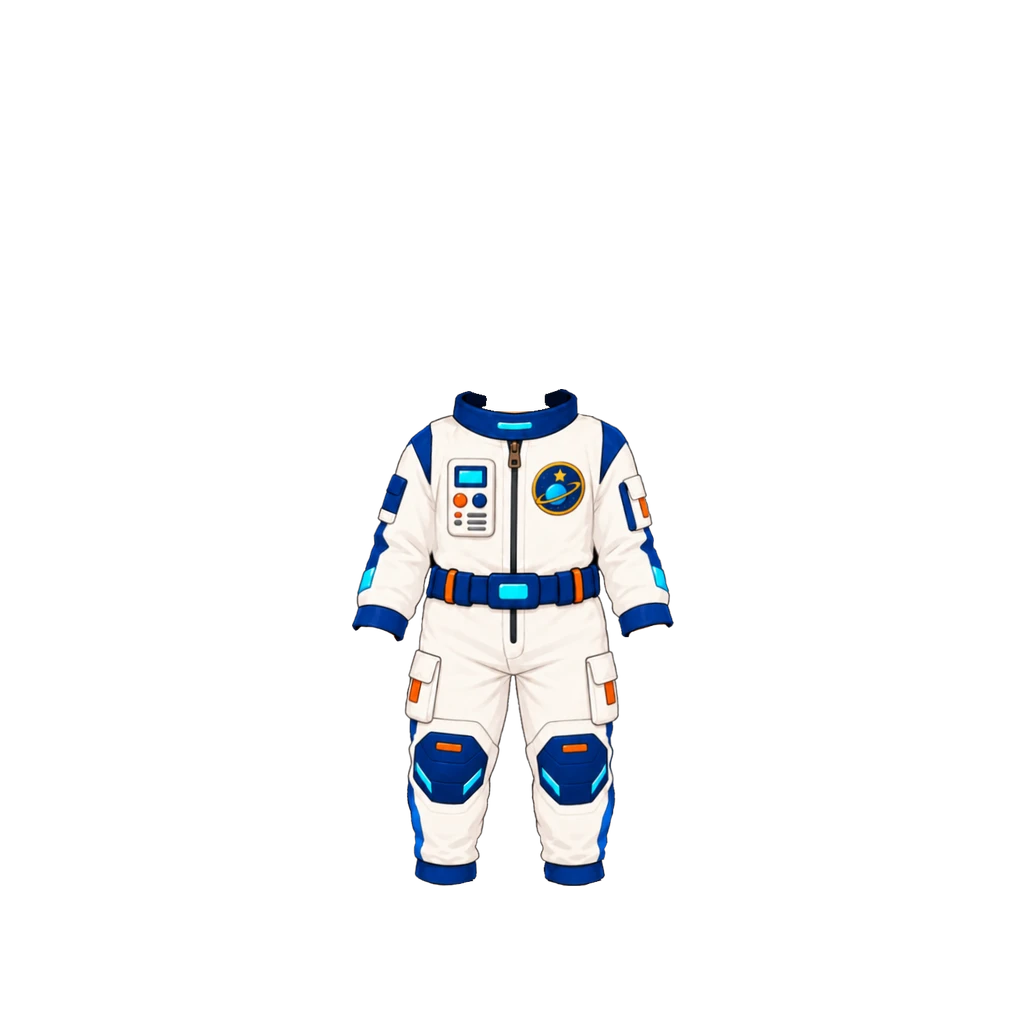
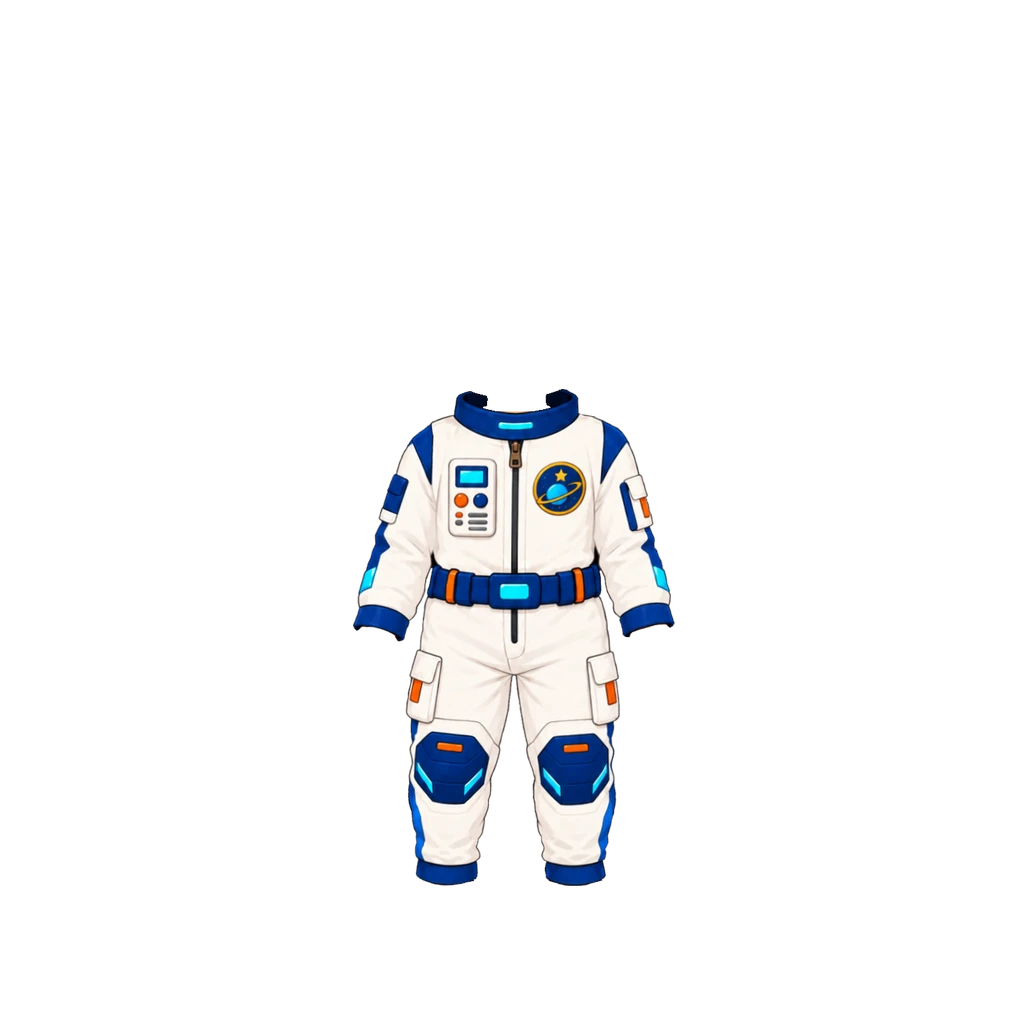
남아 우주복 오른쪽으로 1 (#822)
Claude-Session: https://claude.ai/code/session_018maNuYqDfFyRSe9uKpZhPR

diff --git a/src/data/avatarEquipment.js b/src/data/avatarEquipment.js
@@ -289,7 +289,8 @@ export const AVATAR_CATALOG = [
      베이스 목이 비친다. 바지 끝 y934 — 우주 부츠(z25)의 부츠목을 덮는다. 탑재 상자 (341,394,690,934). img ?v=4.
      [2026-10-03] 사용자 조정 — 8% 작게(배율 0.6974, 목깃 가운데 x516·위끝 y394 고정). 탑재 상자 (355,394,677,891). img ?v=5.
      [2026-10-03] 사용자 조정 — 위로 3(목깃 위끝 y391). 탑재 상자 (355,391,677,888). img ?v=6.
-     [2026-10-03] 사용자 조정 — 왼쪽으로 3·위로 2(목깃 가운데 x513, 위끝 y389). 탑재 상자 (352,389,674,886). img ?v=7. */
+     [2026-10-03] 사용자 조정 — 왼쪽으로 3·위로 2(목깃 가운데 x513, 위끝 y389). 탑재 상자 (352,389,674,886). img ?v=7.
+     [2026-10-03] 사용자 조정 — 오른쪽으로 1(목깃 가운데 x514). 탑재 상자 (353,389,675,886). img ?v=8. */
   /* 해적 옷 — 이 원화도 '옷만 오려 낸 그림'이라 상체를 눈으로 맞췄다(하늘 나들이 옷과 같은 방식).
      긴소매라 소맷부리가 손목에 닿는 배율을 골랐다 — 0.72는 팔뚝이 남고 0.76부터는 손을 덮는다.
      배율 0.74 · 깃 위끝 y372(기본 반팔티 깃과 같은 자리) → 탑재 상자 (350,372)-(674,754). */
@@ -356,7 +357,7 @@ export const AVATAR_CATALOG = [
      배율 0.7104, 목 중심 새 원화 x212.06 → x511.5, 턱 자리 y0 → y356. 목둘레 안(y0~23, x173~255)과 맨 위(y0~5)의 보라 아닌 픽셀을 지웠다.
      옛 판과 겹침 IoU 0.956. 탑재 상자 (361,356,662,887). imgGirl ?v=5.
      [2026-10-03] 사용자 조정 — 왼쪽으로 2(목 중심 x509.5). 탑재 상자 (359,356,660,887). imgGirl ?v=6. */
-  { id: "top_space",      slot: "top",   label: "우주 탐험대",       emoji: "🚀", labelGirl: "별빛 우주인", emojiGirl: "🪐", price:DECOR_PRICE.epic, rarity: "epic", theme: "space",  coversBottom: true, img: "assets/avatar/top/space-suit-boy.webp?v=7", imgGirl: "assets/avatar/top/space-suit-girl.webp?v=6", thumb: "assets/avatar/thumb/top_space.webp?v=4", thumbGirl: "assets/avatar/thumb/top_space-girl.webp?v=5" },
+  { id: "top_space",      slot: "top",   label: "우주 탐험대",       emoji: "🚀", labelGirl: "별빛 우주인", emojiGirl: "🪐", price:DECOR_PRICE.epic, rarity: "epic", theme: "space",  coversBottom: true, img: "assets/avatar/top/space-suit-boy.webp?v=8", imgGirl: "assets/avatar/top/space-suit-girl.webp?v=6", thumb: "assets/avatar/thumb/top_space.webp?v=4", thumbGirl: "assets/avatar/thumb/top_space-girl.webp?v=5" },
 
   /* ── 우주 세트 (남아) — 사용자 원화 2026-09-29 ────────────────────────────
      우주복(top_space)과 같은 원화 세트에서 나온 가방·신발. 둘 다 남아 전용 첫

diff --git a/art-src/README.md b/art-src/README.md
@@ -354,7 +354,7 @@ getBoundingClientRect로 재서 정한다. 2026-08-05 점검에서 이 기준을
 | raincoat-girl-src.webp | **노란 우비 원화 여아 (사용자 원화 2026-10-02)**. 449×443 투명 배경, 노란 우비(흰 둥근 깃·청록 테두리·구름 주머니) + 청록 반바지 한 벌. 위쪽에 목(턱 없음)이 함께 그려져 있다. 원화 목 외곽선 x194.5~258.5(폭 64, 중심 226.5)를 여아 목 중심 x512.5 에, 곧은 목선이 깃 속으로 들어가는 원화 y19 를 여아 y372 에 맞추고 배율 0.69(목 폭이 같아지는 값 — 품이 넓어 수영복은 0.64 부터 다 가려진다, 소매는 손목에서 끝남). 목 살(r−b>70)과 목 옆선은 원화 y6→24 동안 0→1 페이드. 조각 1개, 수영복 비침 0. 탑재 상자 (356,360,666,665) **[2026-10-02 보정]** 사용자 요청으로 반바지만 5퍼센트 키움 — 열마다 노란색 마지막 줄+4 아래(가운데 앞자락 틈 x200~232·y<392 제외)를 반바지로 떼어, 원화 (x221.5, y395) 기준으로 1.05배 키워 원래 반바지 위·우비 아래에 넣었다. 키운 반바지가 원래 반바지 윗선보다 위로 우비 밖에 나오는 부분은 잘랐다. 탑재 상자 (355,360)-(668,669) · ?v=2 | avatar/top/raincoat-girl.webp · thumb/top_raincoat.webp |
 | delivery-girl-outfit-src.webp | **배달부룩 원화 여아 (사용자 원화 2026-10-02)**. 2366×3072 **검은 불투명 배경**(알파 없음)으로 받았다 → 가장자리에서 4-연결로 이어진 검은색(최댓값<34)만 지우고, 옷 둘레 4px 띠는 밝기로 반투명 처리한 뒤 폭 470 으로 줄여 보관(470×613). 하늘색 세일러 블라우스(크림 깃·파란 리본) + 파란 주름치마 원피스, 위쪽에 목(턱 없음)이 함께 그려져 있다. 원화 목 외곽선 x203.5~279(폭 75.5, 중심 241.25)를 여아 목 중심 x512.5 에, 곧은 목선이 끝나는 원화 y15 를 여아 y372 에 맞추고 흰 수영복이 다 가려지는 배율 0.60(목 폭 기준 0.58). 목 살(r−b>70)과 목 옆선은 원화 y4→22 동안 0→1 페이드. 조각 1개, 수영복 비침 1px. 탑재 상자 (368,363,650,731) | avatar/top/delivery-outfit-girl.webp · thumb/top_delivery.webp |
 | sky-girl-tights-src.webp | 위 옷의 **타이츠 있는 판** (알파 상자 (206,707)-(625,1582)). **안 썼다** — 아래 '옷만 오려 낸 원화' 절 참고. 타이츠 아이템을 따로 만들 때 다시 쓸 수 있어 남겨 둔다 | (미탑재) |
-| space-boy-src.webp | **우주복 원화 남아 — 새 판 (사용자 원화 2026-10-03, 이전 판 교체)**. 461×713 투명 배경, 흰 우주복(남색 목깃·어깨·소매·벨트·무릎보호대, 제어판·토성 패치, 주황 포인트) 발목까지 한 벌 — 앞 판(2026-09-29 우주 세트)과 같은 디자인에 어깨·소매가 다 그려졌다. 목깃 안(원화 y0~31, x140~329)의 R≥B 픽셀(턱선·목 살)을 지워 베이스 목이 비치게 했다. 앞 판 자리(배율 0.716, 상관 0.95)에서는 어깨 위로 베이스 어깨·속옷 끈이 비쳐, 목깃 가운데 x230.5 → x516, 배율 0.758, 목깃 위끝 y394 로 올려 어깨를 덮음. 바지 끝 y934 가 우주 부츠의 부츠목을 덮는다. 탑재 상자 (341,394,690,934) · img ?v=4 **[2026-10-03 조정]** 8% 작게(0.6974, 목깃 고정), 상자 (355,394,677,891) · img ?v=5. 위로 3(목깃 y391), 상자 (355,391,677,888) · img ?v=6. 왼쪽 3·위로 2(목깃 x513·y389), 상자 (352,389,674,886) · img ?v=7 | avatar/top/space-suit-boy.webp |
+| space-boy-src.webp | **우주복 원화 남아 — 새 판 (사용자 원화 2026-10-03, 이전 판 교체)**. 461×713 투명 배경, 흰 우주복(남색 목깃·어깨·소매·벨트·무릎보호대, 제어판·토성 패치, 주황 포인트) 발목까지 한 벌 — 앞 판(2026-09-29 우주 세트)과 같은 디자인에 어깨·소매가 다 그려졌다. 목깃 안(원화 y0~31, x140~329)의 R≥B 픽셀(턱선·목 살)을 지워 베이스 목이 비치게 했다. 앞 판 자리(배율 0.716, 상관 0.95)에서는 어깨 위로 베이스 어깨·속옷 끈이 비쳐, 목깃 가운데 x230.5 → x516, 배율 0.758, 목깃 위끝 y394 로 올려 어깨를 덮음. 바지 끝 y934 가 우주 부츠의 부츠목을 덮는다. 탑재 상자 (341,394,690,934) · img ?v=4 **[2026-10-03 조정]** 8% 작게(0.6974, 목깃 고정), 상자 (355,394,677,891) · img ?v=5. 위로 3(목깃 y391), 상자 (355,391,677,888) · img ?v=6. 왼쪽 3·위로 2(목깃 x513·y389), 상자 (352,389,674,886) · img ?v=7. 오른쪽 1(목깃 x514), 상자 (353,389,675,886) · img ?v=8 | avatar/top/space-suit-boy.webp |
 | astronaut-helmet-boy-src.webp | **우주 헬멧 원화 남아 (사용자 원화 2026-09-29, 우주 세트 2/4 — '옷+헬멧' 그림에서 목깃 아래를 잘라 보관)** — 554×480 캔버스, 이미 '쓰고 있는 머리 그림'이라 얼굴 위치를 눈으로 맞출 필요가 없었다. 흰 돔 + 남색 링·귀 스피커 + 하늘색 바이저 하이라이트. hidesHead(베이스 머리 전체를 이 그림이 대신한다). 배율은 우주복과 같은 0.638 — 헬멧 밑단(목깃 최고점, 원화 y632)을 우주복 목깃 위끝(y640)과 같은 자리(y405)에 맞춰서 둘 사이에 틈이나 겹침이 없다. 탑재 상자 (216,2)-(569,308). **[2026-09-30] 사용자가 미리보기로 써 보고 바로 빼 달라고 해서 카탈로그에서 뺐다**(hat_astronaut, RETIRED_ITEM_INFO) — 그림·원본은 CLAUDE.md 6 번과 달리 '교체'가 아니라 '보류'라 그대로 둔다 | avatar/hat/astronaut-helmet-boy.webp |
 | rocket-pack-boy-src.webp | **로켓 가방 원화 남아 (사용자 원화 2026-09-29, 우주 세트 4/4 — '옷+헬멧+가방+신발' 그림에서 오려 냄)** — 142×321 캔버스. 원화가 어깨 너머로 비스듬히 얹힌 로켓이라, 등 슬롯 기본 z(15, 몸통 뒤)로 두면 몸통 실루엣 밖으로 삐져나온 부분만 보이는데 그게 딱 원화가 보여 주는 모습이라 **z를 따로 안 올렸다**(탐험 배낭 어깨끈과 달리 앞으로 끌어올 필요가 없었다). 떼어내는 방법: '같은 세트의 신발까지만 있는 그림'(옷+헬멧+신발, 가방 없음)과 특징점 정합(ORB)한 뒤, 몸통 실루엣을 15px 넉넉히 부풀려 그 밖으로 나온 덩어리만 남겼다(색차가 아니라 실루엣 비교라 몸통색과 겹쳐도 안전). 탑재 배율 0.638 그대로, 세트 정합으로 계산한 상자 (222,39 기준계)를 거쳐 최종 탑재 | avatar/back/rocket-pack-boy.webp |
 | astronaut-boots-boy-src.webp | **우주 부츠 원화 남아 (사용자 원화 2026-09-29, 우주 세트 3/4 — '옷+헬멧+신발' 그림에서 발목 위를 잘라 보관)** — 396×228 캔버스. 흰 부츠 + 남색 발목 스트랩·밑창 + 주황 포인트. 우주복 바지 밑단(y1425)에 발목깃이 물리도록 맞췄다(발목깃 원화 y1295부터 보관). 배율 0.638 · 탑재 상자 (222,39)-(618,357) | avatar/shoes/astronaut-boots-boy.webp |
